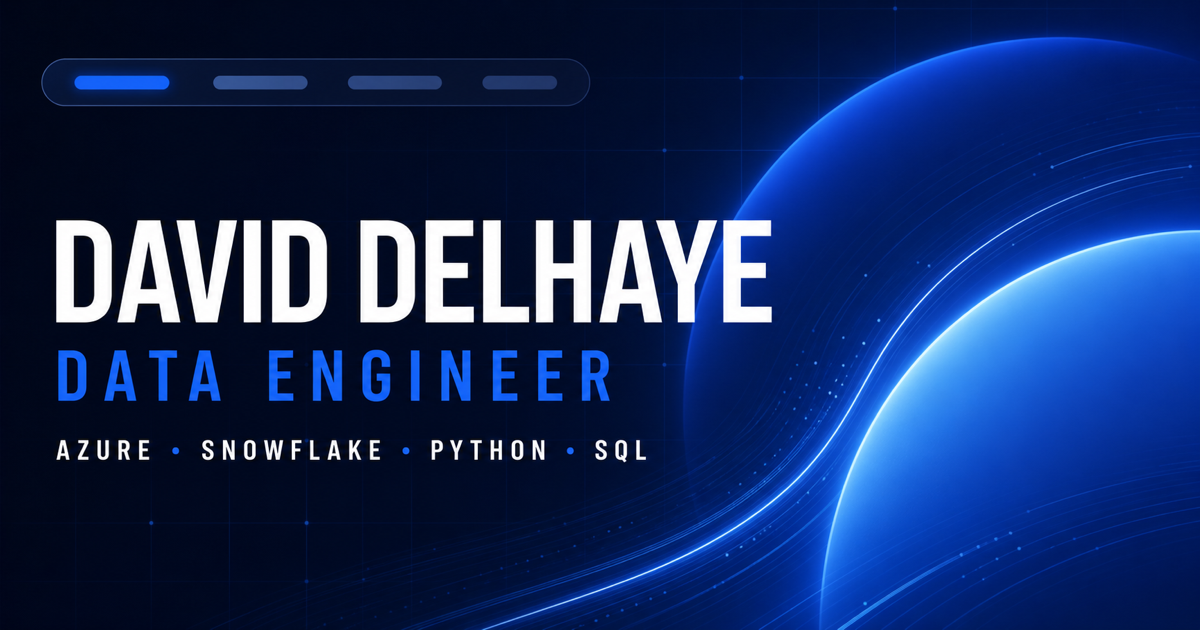
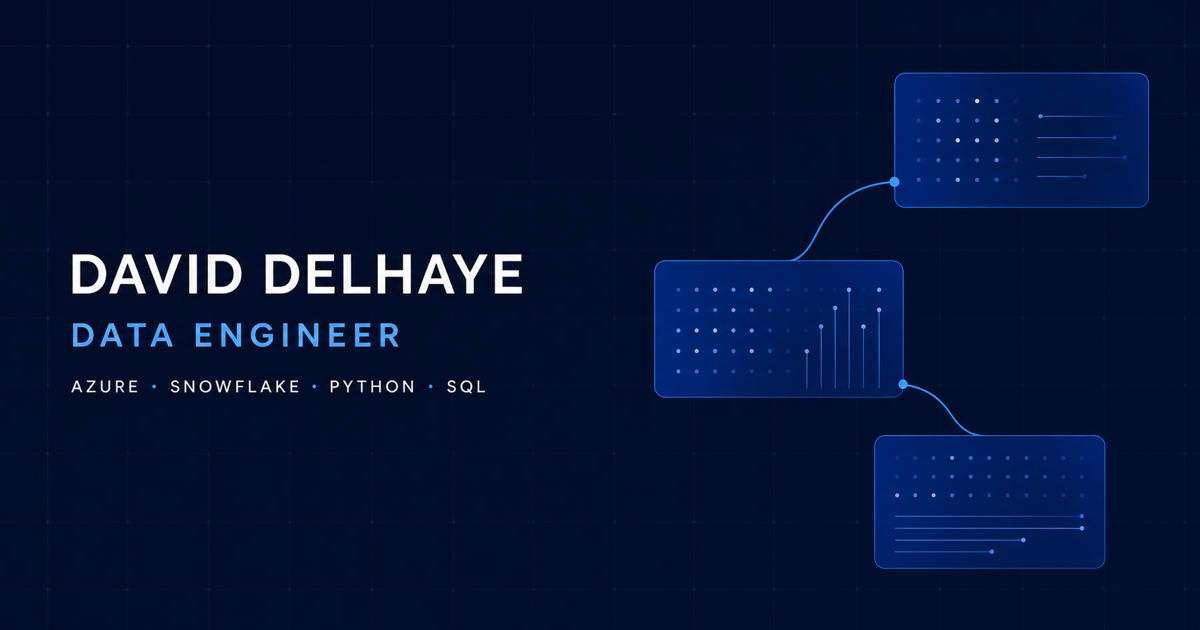
Lighten portfolio content layout

diff --git a/src/components/portfolio/FluidPortfolio.tsx b/src/components/portfolio/FluidPortfolio.tsx
@@ -4,13 +4,14 @@ import Image from "next/image";
 import {
   ArrowDownRight,
   ArrowUpRight,
+  ChevronDown,
   Download,
   Mail,
   MapPin,
   Menu,
   X,
 } from "lucide-react";
-import { motion, useReducedMotion, useScroll, useSpring } from "motion/react";
+import { AnimatePresence, motion, useReducedMotion, useScroll, useSpring } from "motion/react";
 import { useEffect, useState, type ReactNode } from "react";
 import {
   contactItems,
@@ -59,9 +60,9 @@ function SectionHeading({ index, title, intro, inverted = false }: SectionHeadin
     <Reveal className="grid gap-7 lg:grid-cols-[0.78fr_1.22fr] lg:items-end">
       <div>
         <p className={`font-mono text-[0.65rem] tracking-[0.16em] uppercase ${inverted ? "text-sky" : "text-blue"}`}>{index}</p>
-        <h2 className={`mt-5 text-[clamp(2.8rem,5.6vw,6rem)] leading-[0.9] font-semibold tracking-[-0.065em] ${inverted ? "text-white" : "text-blue-dark"}`}>{title}</h2>
+        <h2 className={`mt-5 text-[clamp(2.6rem,4.8vw,5rem)] leading-[0.92] font-semibold tracking-[-0.06em] ${inverted ? "text-white" : "text-blue-dark"}`}>{title}</h2>
       </div>
-      {intro ? <p className={`max-w-xl text-lg leading-8 lg:justify-self-end ${inverted ? "text-white/58" : "text-ink/58"}`}>{intro}</p> : null}
+      {intro ? <p className={`max-w-xl text-base leading-7 lg:justify-self-end ${inverted ? "text-white/58" : "text-ink/58"}`}>{intro}</p> : null}
     </Reveal>
   );
 }
@@ -133,15 +134,15 @@ function Hero() {
   const reduceMotion = useReducedMotion();
 
   return (
-    <section id="accueil" aria-labelledby="hero-title" className="blueprint-grid relative isolate min-h-screen overflow-hidden bg-blue-deep pt-32 pb-16 text-white sm:pt-36 lg:pt-40">
+    <section id="accueil" aria-labelledby="hero-title" className="blueprint-grid relative isolate overflow-hidden bg-blue-deep pt-32 pb-20 text-white sm:pt-36 lg:pt-40">
       <div aria-hidden="true" className="ambient-orb absolute -top-24 -left-24 size-80 rounded-full bg-blue/28 blur-3xl" />
       <div aria-hidden="true" className="ambient-orb-delayed absolute right-[4%] bottom-[5%] size-72 rounded-full bg-sky/14 blur-3xl" />
-      <div className="mx-auto grid min-h-[calc(100vh-12rem)] max-w-[1380px] items-center gap-14 px-5 sm:px-8 lg:grid-cols-[1.08fr_0.92fr] lg:px-12">
+      <div className="mx-auto grid min-h-[72vh] max-w-[1380px] items-center gap-14 px-5 sm:px-8 lg:grid-cols-[1.15fr_0.85fr] lg:px-12">
         <div className="relative z-10">
           <motion.p initial={reduceMotion ? false : { opacity: 0, y: 15 }} animate={{ opacity: 1, y: 0 }} transition={{ duration: 0.5 }} className="flex items-center gap-3 font-mono text-[0.65rem] tracking-[0.16em] text-sky uppercase">
             <span className="size-2 rounded-full bg-sky shadow-[0_0_18px_rgba(143,197,255,0.9)]" aria-hidden="true" />{interfaceLabels.availability}
           </motion.p>
-          <motion.h1 id="hero-title" initial={reduceMotion ? false : { opacity: 0, y: 28 }} animate={{ opacity: 1, y: 0 }} transition={{ duration: 0.7, delay: 0.08, ease: [0.22, 1, 0.36, 1] }} className="mt-9 text-[clamp(4.3rem,10vw,10.5rem)] leading-[0.74] font-semibold tracking-[-0.085em]">
+          <motion.h1 id="hero-title" initial={reduceMotion ? false : { opacity: 0, y: 28 }} animate={{ opacity: 1, y: 0 }} transition={{ duration: 0.7, delay: 0.08, ease: [0.22, 1, 0.36, 1] }} className="mt-9 text-[clamp(4rem,8.5vw,8.2rem)] leading-[0.76] font-semibold tracking-[-0.08em]">
             {titleLead}
             <span className="block font-serif font-normal text-sky italic">{titleAccent}</span>
           </motion.h1>
@@ -152,7 +153,7 @@ function Hero() {
           </motion.div>
         </div>
 
-        <motion.div animate={reduceMotion ? undefined : { y: [0, -12, 0] }} transition={{ duration: 6, repeat: Infinity, ease: "easeInOut" }} className="relative mx-auto w-full max-w-[520px] lg:mx-0 lg:ml-auto">
+        <motion.div animate={reduceMotion ? undefined : { y: [0, -10, 0] }} transition={{ duration: 6, repeat: Infinity, ease: "easeInOut" }} className="relative mx-auto w-full max-w-[440px] lg:mx-0 lg:ml-auto">
           <div aria-hidden="true" className="pulse-ring absolute -inset-5 rounded-[3rem] border border-sky/35" />
           <figure className="relative overflow-hidden rounded-[2.5rem] border border-white/15 bg-blue-dark p-2 shadow-2xl shadow-black/35">
             <div className="relative aspect-[4/5] overflow-hidden rounded-[2rem] bg-blue">
@@ -190,20 +191,20 @@ function StackMarquee() {
 
 function About() {
   return (
-    <section id="a-propos" aria-labelledby="about-title" className="scroll-mt-28 bg-paper py-24 sm:py-32">
+    <section id="a-propos" aria-labelledby="about-title" className="scroll-mt-28 bg-paper py-20 sm:py-28">
       <div className="mx-auto max-w-[1380px] px-5 sm:px-8 lg:px-12">
         <SectionHeading index={sectionContent.about.index} title={sectionContent.about.title} />
-        <div className="mt-14 grid gap-12 lg:grid-cols-[0.72fr_1.28fr] lg:gap-24">
+        <div className="mt-12 grid gap-10 lg:grid-cols-[0.68fr_1.32fr] lg:gap-20">
           <Reveal>
             <p className="max-w-sm text-lg leading-8 text-ink/55">{profile.summary[1]}</p>
             <p className="mt-8 flex items-center gap-2 text-xs font-semibold tracking-[0.1em] text-blue uppercase"><MapPin className="size-4" aria-hidden="true" />{profile.location} · {profile.workMode}</p>
           </Reveal>
           <Reveal delay={0.08}>
-            <h3 id="about-title" className="text-[clamp(2.3rem,4.4vw,4.8rem)] leading-[1.02] font-medium tracking-[-0.055em] text-blue-dark">{interfaceLabels.profileStatementLead} <span className="font-serif font-normal text-blue italic">{interfaceLabels.profileStatementAccent}</span></h3>
-            <ul className="mt-12 grid gap-3 sm:grid-cols-3">
+            <h3 id="about-title" className="text-[clamp(2.2rem,3.8vw,4rem)] leading-[1.04] font-medium tracking-[-0.05em] text-blue-dark">{interfaceLabels.profileStatementLead} <span className="font-serif font-normal text-blue italic">{interfaceLabels.profileStatementAccent}</span></h3>
+            <ul className="mt-9 flex flex-wrap gap-2">
               {profileFocus.map((focus, index) => (
-                <motion.li key={focus} whileHover={reduceHover()} className="rounded-2xl border border-blue-dark/10 bg-white p-5 shadow-[0_8px_30px_rgba(7,26,56,0.06)]">
-                  <span className="font-mono text-[0.6rem] text-blue">0{index + 1}</span><p className="mt-7 text-lg font-semibold text-blue-dark">{focus}</p>
+                <motion.li key={focus} whileHover={{ y: -2 }} className="inline-flex items-center gap-3 rounded-full border border-blue-dark/12 bg-white px-4 py-2.5">
+                  <span className="font-mono text-[0.55rem] text-blue">0{index + 1}</span><span className="text-sm font-semibold text-blue-dark">{focus}</span>
                 </motion.li>
               ))}
             </ul>
@@ -214,30 +215,42 @@ function About() {
   );
 }
 
-function reduceHover() {
-  return { y: -4 };
-}
-
 function Experience() {
+  const [openExperience, setOpenExperience] = useState<number | null>(null);
+
   return (
-    <section id="experiences" aria-labelledby="experience-title" className="scroll-mt-28 bg-blue-soft py-24 sm:py-32">
+    <section id="experiences" aria-labelledby="experience-title" className="scroll-mt-28 bg-blue-soft py-20 sm:py-28">
       <div className="mx-auto max-w-[1380px] px-5 sm:px-8 lg:px-12">
         <SectionHeading index={sectionContent.experience.index} title={sectionContent.experience.title} intro={interfaceLabels.experienceIntro} />
         <h3 id="experience-title" className="sr-only">{sectionContent.experience.title}</h3>
-        <div className="mt-14 grid gap-5 lg:grid-cols-2">
+        <div className="mt-12 overflow-hidden rounded-[2rem] border border-blue-dark/10 bg-white shadow-[0_16px_45px_rgba(7,26,56,0.07)]">
           {experiences.map((experience, index) => (
-            <Reveal key={`${experience.company}-${experience.period}`} delay={(index % 2) * 0.08}>
-              <motion.article whileHover={{ y: -5 }} transition={{ duration: 0.25 }} className="h-full rounded-[2rem] border border-blue-dark/10 bg-white p-6 shadow-[0_16px_45px_rgba(7,26,56,0.08)] sm:p-8">
-                <div className="flex items-start justify-between gap-5">
-                  <div><p className="font-mono text-[0.62rem] tracking-[0.12em] text-blue uppercase">{experience.company}</p><h3 className="mt-3 text-2xl font-semibold tracking-[-0.035em] text-blue-dark sm:text-3xl">{experience.role}</h3></div>
-                  <span className="font-mono text-[0.6rem] text-blue-dark/30">0{index + 1}</span>
-                </div>
-                <div className="mt-6 flex flex-wrap gap-x-5 gap-y-2 text-xs text-ink/45"><span>{experience.period}</span><span className="flex items-center gap-1.5"><MapPin className="size-3.5 text-blue" aria-hidden="true" />{experience.location}</span></div>
-                <ul className="mt-7 space-y-3 border-t border-blue-dark/10 pt-6">
-                  {experience.missions.map((mission) => <li key={mission} className="grid grid-cols-[10px_1fr] gap-3 text-sm leading-6 text-ink/60 before:mt-[0.65rem] before:size-1.5 before:rounded-full before:bg-blue">{mission}</li>)}
-                </ul>
-              </motion.article>
-            </Reveal>
+            <article key={`${experience.company}-${experience.period}`} className="border-b border-blue-dark/10 last:border-b-0">
+              <button
+                type="button"
+                aria-expanded={openExperience === index}
+                aria-controls={`experience-details-${index}`}
+                onClick={() => setOpenExperience((current) => current === index ? null : index)}
+                className="group grid w-full gap-5 p-5 text-left transition-colors hover:bg-blue-soft/35 sm:grid-cols-[50px_0.8fr_1.2fr_auto] sm:items-center sm:p-6"
+              >
+                <span className="font-mono text-[0.58rem] text-blue">0{index + 1}</span>
+                <div><p className="text-[0.62rem] font-semibold tracking-[0.1em] text-blue uppercase">{experience.company}</p><p className="mt-1 text-xs text-ink/42">{experience.period}</p></div>
+                <div><h3 className="text-xl font-semibold tracking-[-0.025em] text-blue-dark">{experience.role}</h3><p className="mt-1 flex items-center gap-1.5 text-xs text-ink/42"><MapPin className="size-3 text-blue" aria-hidden="true" />{experience.location}</p></div>
+                <span className="flex items-center gap-2 text-[0.62rem] font-semibold tracking-[0.06em] text-blue uppercase">
+                  <span className="hidden lg:inline">{openExperience === index ? interfaceLabels.hideMissions : interfaceLabels.showMissions}</span>
+                  <ChevronDown className={`size-4 transition-transform duration-300 ${openExperience === index ? "rotate-180" : ""}`} aria-hidden="true" />
+                </span>
+              </button>
+              <AnimatePresence initial={false}>
+                {openExperience === index ? (
+                  <motion.div id={`experience-details-${index}`} initial={{ height: 0, opacity: 0 }} animate={{ height: "auto", opacity: 1 }} exit={{ height: 0, opacity: 0 }} transition={{ duration: 0.32, ease: [0.22, 1, 0.36, 1] }} className="overflow-hidden">
+                    <ul className="grid gap-x-10 gap-y-3 border-t border-blue-dark/10 bg-blue-soft/25 px-5 py-6 sm:grid-cols-2 sm:px-6">
+                      {experience.missions.map((mission) => <li key={mission} className="grid grid-cols-[9px_1fr] gap-3 text-sm leading-6 text-ink/58 before:mt-[0.65rem] before:size-1.5 before:rounded-full before:bg-blue">{mission}</li>)}
+                    </ul>
+                  </motion.div>
+                ) : null}
+              </AnimatePresence>
+            </article>
           ))}
         </div>
       </div>
@@ -247,17 +260,17 @@ function Experience() {
 
 function Skills() {
   return (
-    <section id="competences" aria-labelledby="skills-title" className="blueprint-grid scroll-mt-28 bg-blue-dark py-24 text-white sm:py-32">
+    <section id="competences" aria-labelledby="skills-title" className="blueprint-grid scroll-mt-28 bg-blue-dark py-20 text-white sm:py-28">
       <div className="mx-auto max-w-[1380px] px-5 sm:px-8 lg:px-12">
         <SectionHeading index={sectionContent.skills.index} title={sectionContent.skills.title} intro={interfaceLabels.skillsIntro} inverted />
         <h3 id="skills-title" className="sr-only">{sectionContent.skills.title}</h3>
-        <div className="mt-14 grid gap-4 sm:grid-cols-2 lg:grid-cols-5">
+        <div className="mt-12 grid border-t border-white/15 lg:grid-cols-2 lg:gap-x-12">
           {skills.map((category, index) => (
             <Reveal key={category.name} delay={index * 0.05}>
-              <motion.article whileHover={{ y: -6, borderColor: "rgba(143,197,255,0.75)" }} className="min-h-64 rounded-2xl border border-white/14 bg-white/[0.055] p-6 backdrop-blur-sm">
-                <span className="font-mono text-[0.6rem] text-sky">0{index + 1}</span><h3 className="mt-10 text-xl font-semibold">{category.name}</h3>
-                <ul className="mt-6 space-y-2 text-sm text-white/55">{category.items.map((item) => <li key={item}>{item}</li>)}</ul>
-              </motion.article>
+              <article className="grid gap-4 border-b border-white/15 py-6 sm:grid-cols-[0.7fr_1.3fr] sm:items-center">
+                <div className="flex items-center gap-3"><span className="font-mono text-[0.58rem] text-sky">0{index + 1}</span><h3 className="text-lg font-semibold">{category.name}</h3></div>
+                <ul className="flex flex-wrap gap-2">{category.items.map((item) => <li key={item} className="rounded-full border border-white/15 bg-white/[0.045] px-3 py-1.5 text-xs text-white/62">{item}</li>)}</ul>
+              </article>
             </Reveal>
           ))}
         </div>
@@ -266,18 +279,27 @@ function Skills() {
   );
 }
 
-type SoonSectionProps = { id: string; index: string; title: string; message: string; dark?: boolean };
-
-function SoonSection({ id, index, title, message, dark = false }: SoonSectionProps) {
+function FutureSpaces() {
   return (
-    <section id={id} aria-labelledby={`${id}-title`} className={`soft-grid relative scroll-mt-28 overflow-hidden py-24 sm:py-32 ${dark ? "bg-blue-deep text-white" : "bg-paper text-blue-dark"}`}>
-      <div aria-hidden="true" className={`ambient-orb absolute right-[8%] top-1/2 size-56 -translate-y-1/2 rounded-full border ${dark ? "border-sky/25" : "border-blue/20"}`} />
-      <div className="relative mx-auto max-w-[1380px] px-5 sm:px-8 lg:px-12">
-        <Reveal>
-          <p className={`font-mono text-[0.65rem] tracking-[0.16em] uppercase ${dark ? "text-sky" : "text-blue"}`}>{index} · {interfaceLabels.comingSoon}</p>
-          <h2 id={`${id}-title`} className="mt-7 max-w-5xl text-[clamp(3.5rem,7.8vw,8rem)] leading-[0.84] font-semibold tracking-[-0.075em]">{title}</h2>
-          <p className={`mt-9 max-w-xl border-l-2 border-blue pl-5 text-lg leading-8 ${dark ? "text-white/55" : "text-ink/55"}`}>{message}</p>
-        </Reveal>
+    <section aria-labelledby="future-spaces-title" className="soft-grid bg-paper py-20 sm:py-28">
+      <div className="mx-auto max-w-[1380px] px-5 sm:px-8 lg:px-12">
+        <Reveal><p className="font-mono text-[0.65rem] tracking-[0.16em] text-blue uppercase">{sectionContent.projects.index}—{sectionContent.journal.index}</p><h2 id="future-spaces-title" className="mt-5 text-[clamp(2.6rem,4.8vw,5rem)] leading-[0.92] font-semibold tracking-[-0.06em] text-blue-dark">{interfaceLabels.futureSpacesTitle}</h2></Reveal>
+        <div className="mt-10 grid gap-4 lg:grid-cols-2">
+          <Reveal>
+            <article id="projets" className="scroll-mt-28 rounded-[2rem] border border-blue-dark/10 bg-white p-7 sm:p-9">
+              <p className="font-mono text-[0.62rem] tracking-[0.14em] text-blue uppercase">{sectionContent.projects.index} · {interfaceLabels.comingSoon}</p>
+              <h3 className="mt-5 text-3xl font-semibold tracking-[-0.045em] text-blue-dark sm:text-4xl">{interfaceLabels.projectsSoonTitle}</h3>
+              <p className="mt-5 text-base text-ink/52">{interfaceLabels.projectsSoonMessage}</p>
+            </article>
+          </Reveal>
+          <Reveal delay={0.08}>
+            <article id="journal" className="blueprint-grid scroll-mt-28 rounded-[2rem] bg-blue-dark p-7 text-white sm:p-9">
+              <p className="font-mono text-[0.62rem] tracking-[0.14em] text-sky uppercase">{sectionContent.journal.index} · {interfaceLabels.comingSoon}</p>
+              <h3 className="mt-5 text-3xl font-semibold tracking-[-0.045em] sm:text-4xl">{interfaceLabels.blogSoonTitle}</h3>
+              <p className="mt-5 text-base text-white/52">{interfaceLabels.blogSoonMessage}</p>
+            </article>
+          </Reveal>
+        </div>
       </div>
     </section>
   );
@@ -313,7 +335,7 @@ function Contact() {
       <div className="mx-auto grid max-w-[1380px] gap-14 px-5 sm:px-8 lg:grid-cols-[1.1fr_0.9fr] lg:px-12">
         <Reveal>
           <p className="font-mono text-[0.65rem] tracking-[0.16em] text-sky uppercase">{sectionContent.contact.index} · {interfaceLabels.contactKicker}</p>
-          <h2 id="contact-title" className="mt-7 text-[clamp(4rem,9vw,9rem)] leading-[0.76] font-semibold tracking-[-0.085em]">{contactLead}<span className="block font-serif font-normal text-sky italic">{contactAccent}</span></h2>
+          <h2 id="contact-title" className="mt-7 text-[clamp(3.8rem,8vw,7.5rem)] leading-[0.78] font-semibold tracking-[-0.08em]">{contactLead}<span className="block font-serif font-normal text-sky italic">{contactAccent}</span></h2>
           <p className="mt-9 max-w-xl text-lg leading-8 text-white/55">{interfaceLabels.contactIntro}</p>
         </Reveal>
         <Reveal delay={0.1} className="self-end">
@@ -341,8 +363,7 @@ export function FluidPortfolio() {
         <About />
         <Experience />
         <Skills />
-        <SoonSection id="projets" index={sectionContent.projects.index} title={interfaceLabels.projectsSoonTitle} message={interfaceLabels.projectsSoonMessage} />
-        <SoonSection id="journal" index={sectionContent.journal.index} title={interfaceLabels.blogSoonTitle} message={interfaceLabels.blogSoonMessage} dark />
+        <FutureSpaces />
         <Education />
         <Contact />
       </main>

diff --git a/src/data/content.ts b/src/data/content.ts
@@ -79,6 +79,9 @@ export const interfaceLabels = {
   blogSoonTitle: "Blog & photographies",
   blogSoonMessage: "Cette section sera bientôt créée.",
   comingSoon: "Bientôt",
+  futureSpacesTitle: "À venir",
+  showMissions: "Voir les missions",
+  hideMissions: "Masquer les missions",
   profileStatementLead: "Je transforme les besoins data en systèmes",
   profileStatementAccent: "fiables et durables.",
 };

diff --git a/README.md b/README.md
@@ -47,6 +47,8 @@ Les modifications apparaissent automatiquement après l’enregistrement d’un 
 
 Le portfolio se parcourt naturellement avec la molette ou le pavé tactile. La barre flottante permet d’atteindre directement une section et la ligne bleue placée sous cette barre indique la progression dans la page.
 
+Dans le parcours professionnel, les missions restent repliées par défaut. Cliquez sur une expérience pour afficher ou masquer son détail.
+
 ## 4. Arrêter le serveur
 
 Revenez dans le terminal où le serveur fonctionne, puis appuyez sur :
